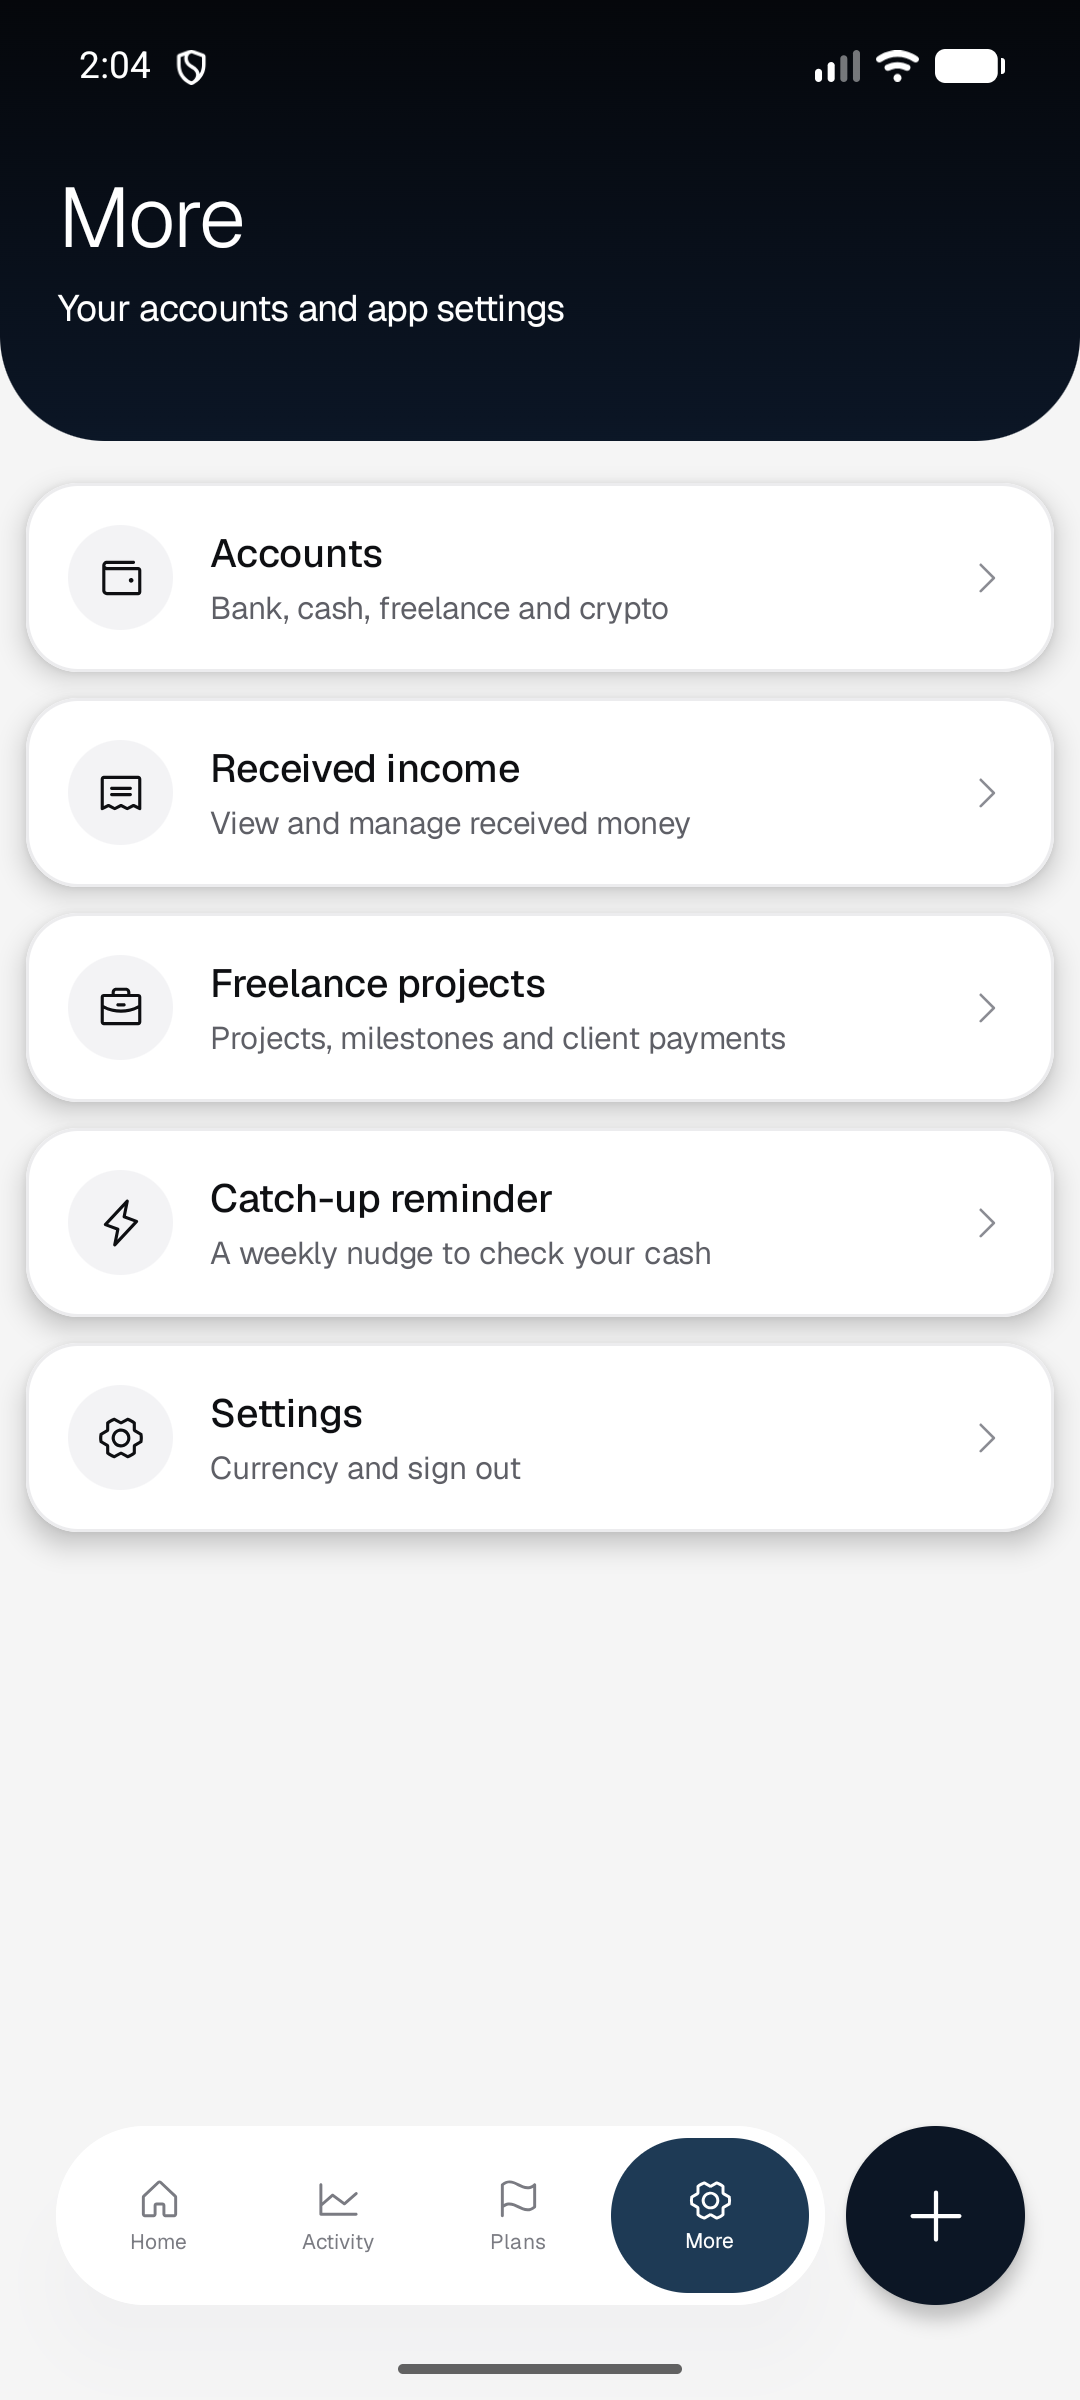
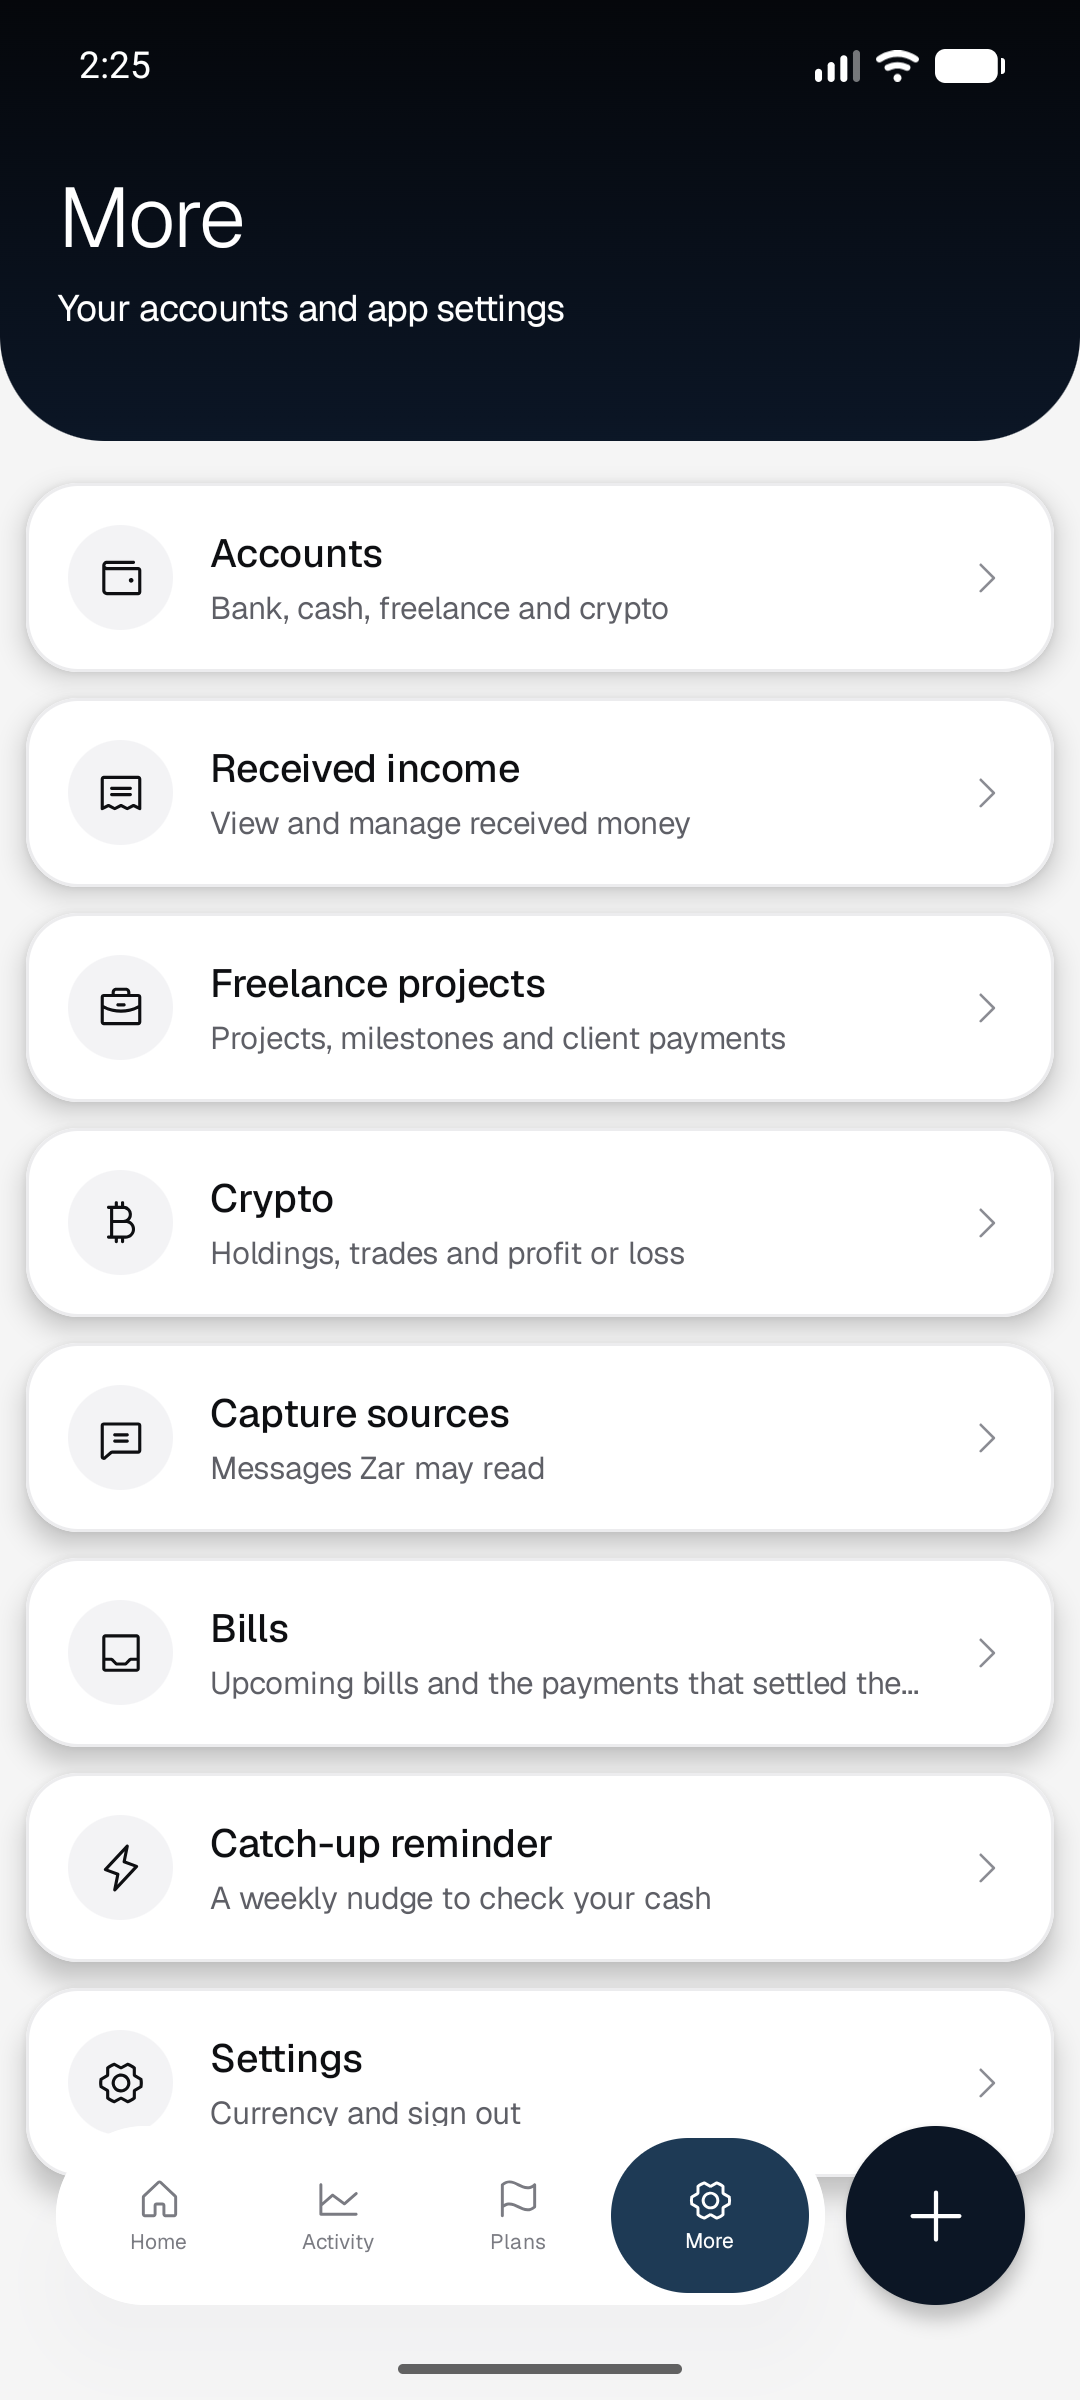
fix(settings): disable Sign out while signing out and list every on-device setting (SCRUM-20)
The Soft Sign out button stayed tappable during sign-out; the old card
did not. The "Where settings live" table now covers the reminder and
subscription-suggestion stores and shared bank text that main added.
Recaptured More (eight rows), Settings, the unsynced sheet and an
offline Sign out anyway on the Pixel_6a against local emulators.

diff --git a/app/src/main/java/com/example/zar/features/settings/presentation/screen/SettingsScreen.kt b/app/src/main/java/com/example/zar/features/settings/presentation/screen/SettingsScreen.kt
@@ -96,6 +96,7 @@ private fun SettingsContent(
                 onClick = onSignOut,
                 modifier = Modifier.fillMaxWidth().testTag("sign-out"),
                 style = ZarButtonStyle.Soft,
+                enabled = !uiState.isSigningOut,
             )
         }
     }

diff --git a/docs/domain-contracts.md b/docs/domain-contracts.md
@@ -56,9 +56,12 @@ These are the shared models, repository interfaces and saving rules that every f
 | Reporting currency (LKR) | Fixed domain value, `Currencies.REPORTING`, read through `AppPreferencesRepository`. Not stored | No. Not editable |
 | Signed-in email | Firebase Auth session (`ObserveSessionUseCase`) | Follows the session |
 | Catch-up reminder (on/off, day, time, skipped week) | This phone only: DataStore (`features/catchup`) | Edited on the reminder screen. Cleared on sign-out (`ResetCatchUpOnSignOut`) |
-| Accounts, entries, everything financial | Firestore under `users/{uid}/` | Synced to the user's Zar account |
+| Overdue-milestone alerts switch and reminders already shown | This phone only: DataStore `payment_reminders` (`features/reminders`) | Cleared on sign-out (`ResetRemindersOnSignOut`) |
+| Dismissed subscription suggestions | This phone only: DataStore `subscription_suggestions` (`features/bills`) | Cleared on sign-out (`ResetSuggestionsOnSignOut`) |
+| Bank text shared into Zar | Memory only (`SharedTextInbox`), never written to disk | Cleared once taken and on sign-out |
+| Accounts, entries, bills and their reminder choice, everything financial | Firestore under `users/{uid}/` | Synced to the user's Zar account |
 
-Nothing on the Settings or reminder screens is held only in memory. Masking, export and capture-source settings are not built yet; their stories add their own rows here.
+Nothing on the Settings or reminder screens is held only in memory. Masking and export settings are not built yet; their stories add their own rows here.
 
 ## Decisions to confirm as a team
 
